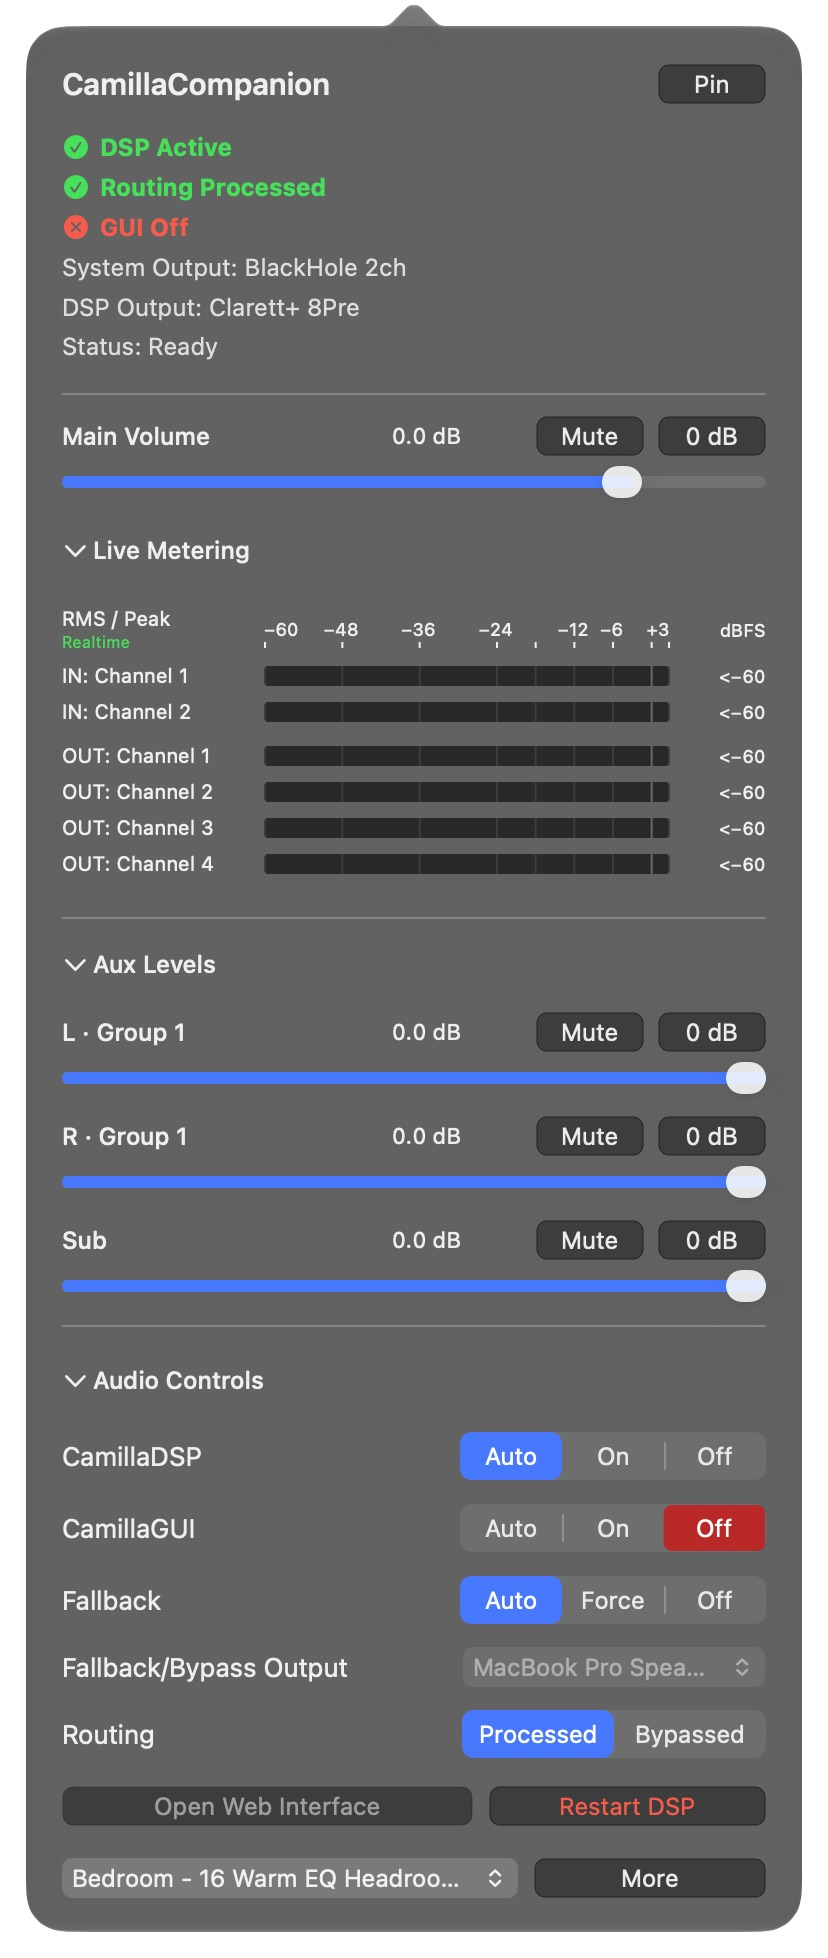
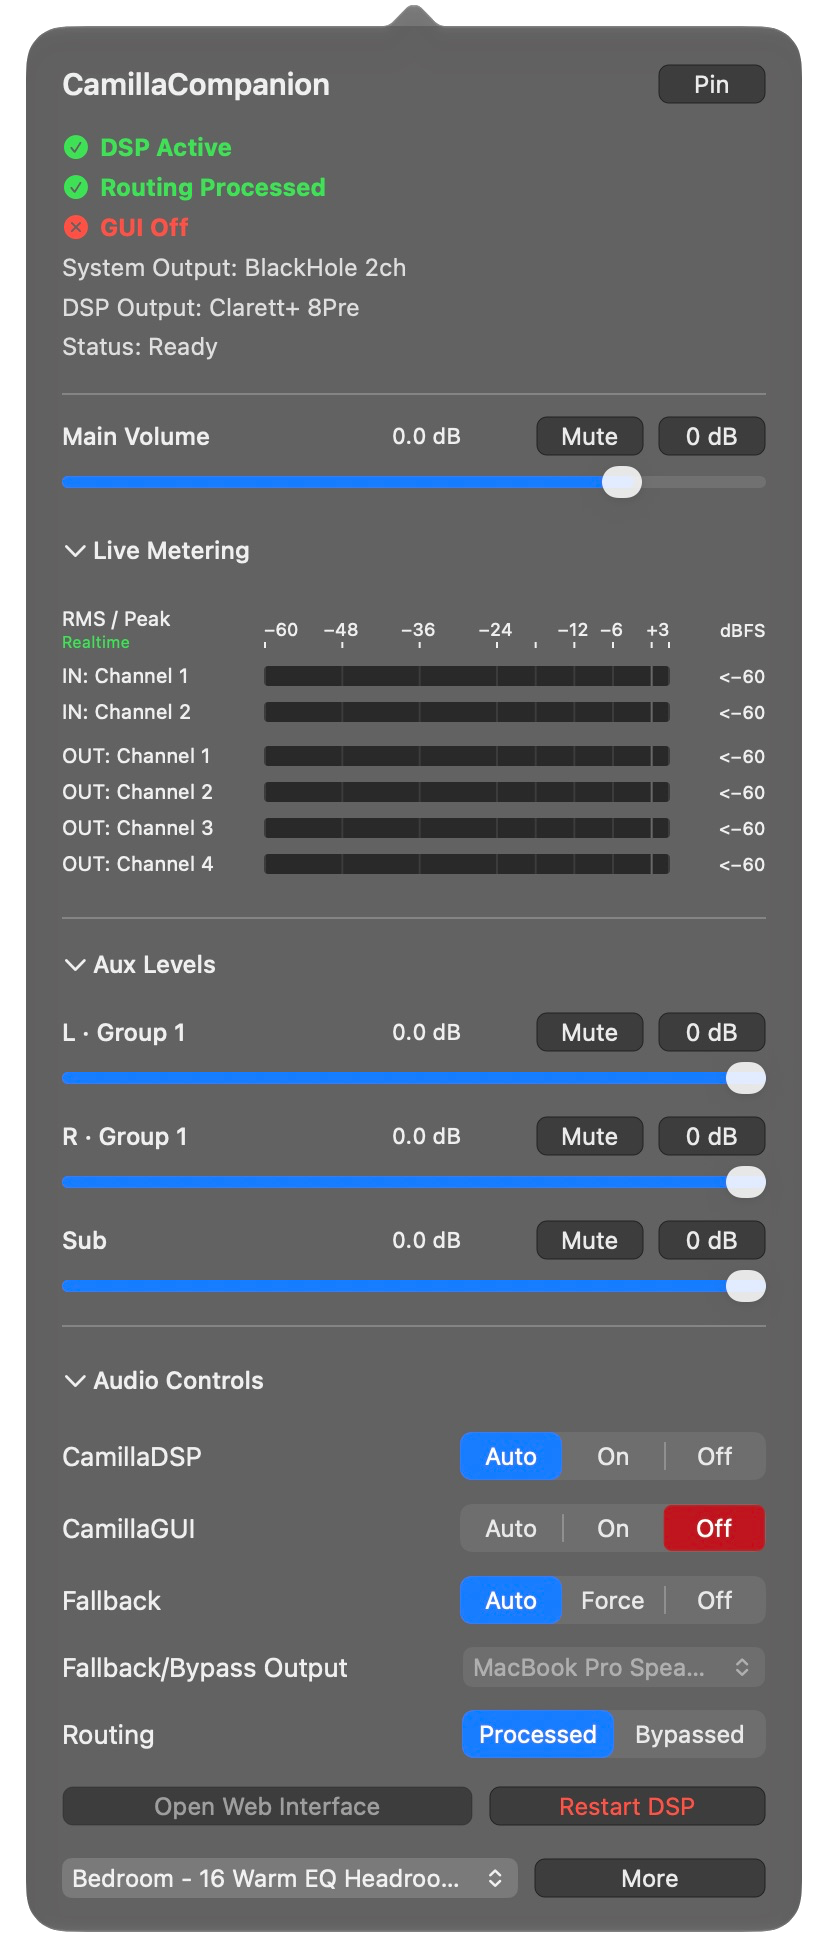
Center README screenshot and remove exterior white background

diff --git a/README.md b/README.md
@@ -9,7 +9,9 @@ The beta uses ad-hoc signing without Apple notarization. Hardware testing curren
 
 [Download beta for Apple Silicon](https://github.com/Edek/CamillaCompanion/releases/download/v0.1.0-beta.1/CamillaCompanion-0.1.0-beta.1-arm64.zip) · [Release notes](https://github.com/Edek/CamillaCompanion/releases/tag/v0.1.0-beta.1)
 
-<img src="docs/images/main-panel.png" alt="CamillaCompanion main panel" width="380">
+<p align="center">
+  <img src="docs/images/main-panel.png" alt="CamillaCompanion main panel" width="380">
+</p>
 
 ## Features
 
